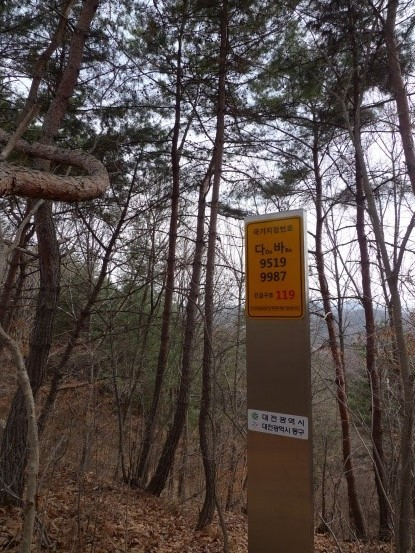
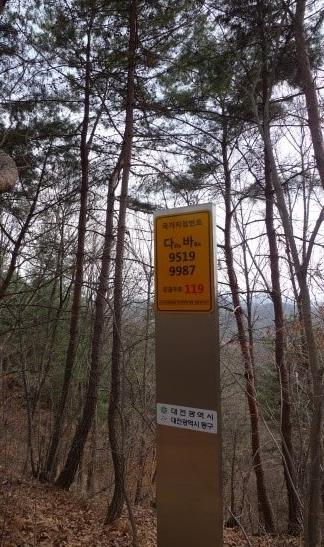
a

diff --git a/style.css b/style.css
@@ -313,7 +313,33 @@ body.dark,
     .parallax {
         display: none;
     }
+    .content {
+        width: 100%;
+        margin: auto;
+    }
+    .content p {
+        width: 95%;
+        margin: auto;
+        font-size: 14px;
+        line-height: 24px;
+        text-align: left;
 
+    }
+    .content .img_container {
+        width: 100%;
+        padding: 0 0 10px 0;
+    }
+    .content .img_container img {
+        width: 100%;
+        max-width: 60vh;
+        max-height: 2000px;
+        padding: 0;
+        margin: 0;
+        
+    }
+    .content .img_container.double img {
+        width: 49%;
+    }
     .moblie_nav {
         position: relative;
         top: 0;

diff --git a/index.html b/index.html
@@ -163,7 +163,7 @@
             </p>
         </div>
         <div class="content">
-            <div class="img_container left small">
+            <div class="img_container left small double">
                 <img src="images/trail_sign1.jpg">
                 <img src="images/trail_sign2.jpg">
             </div>
